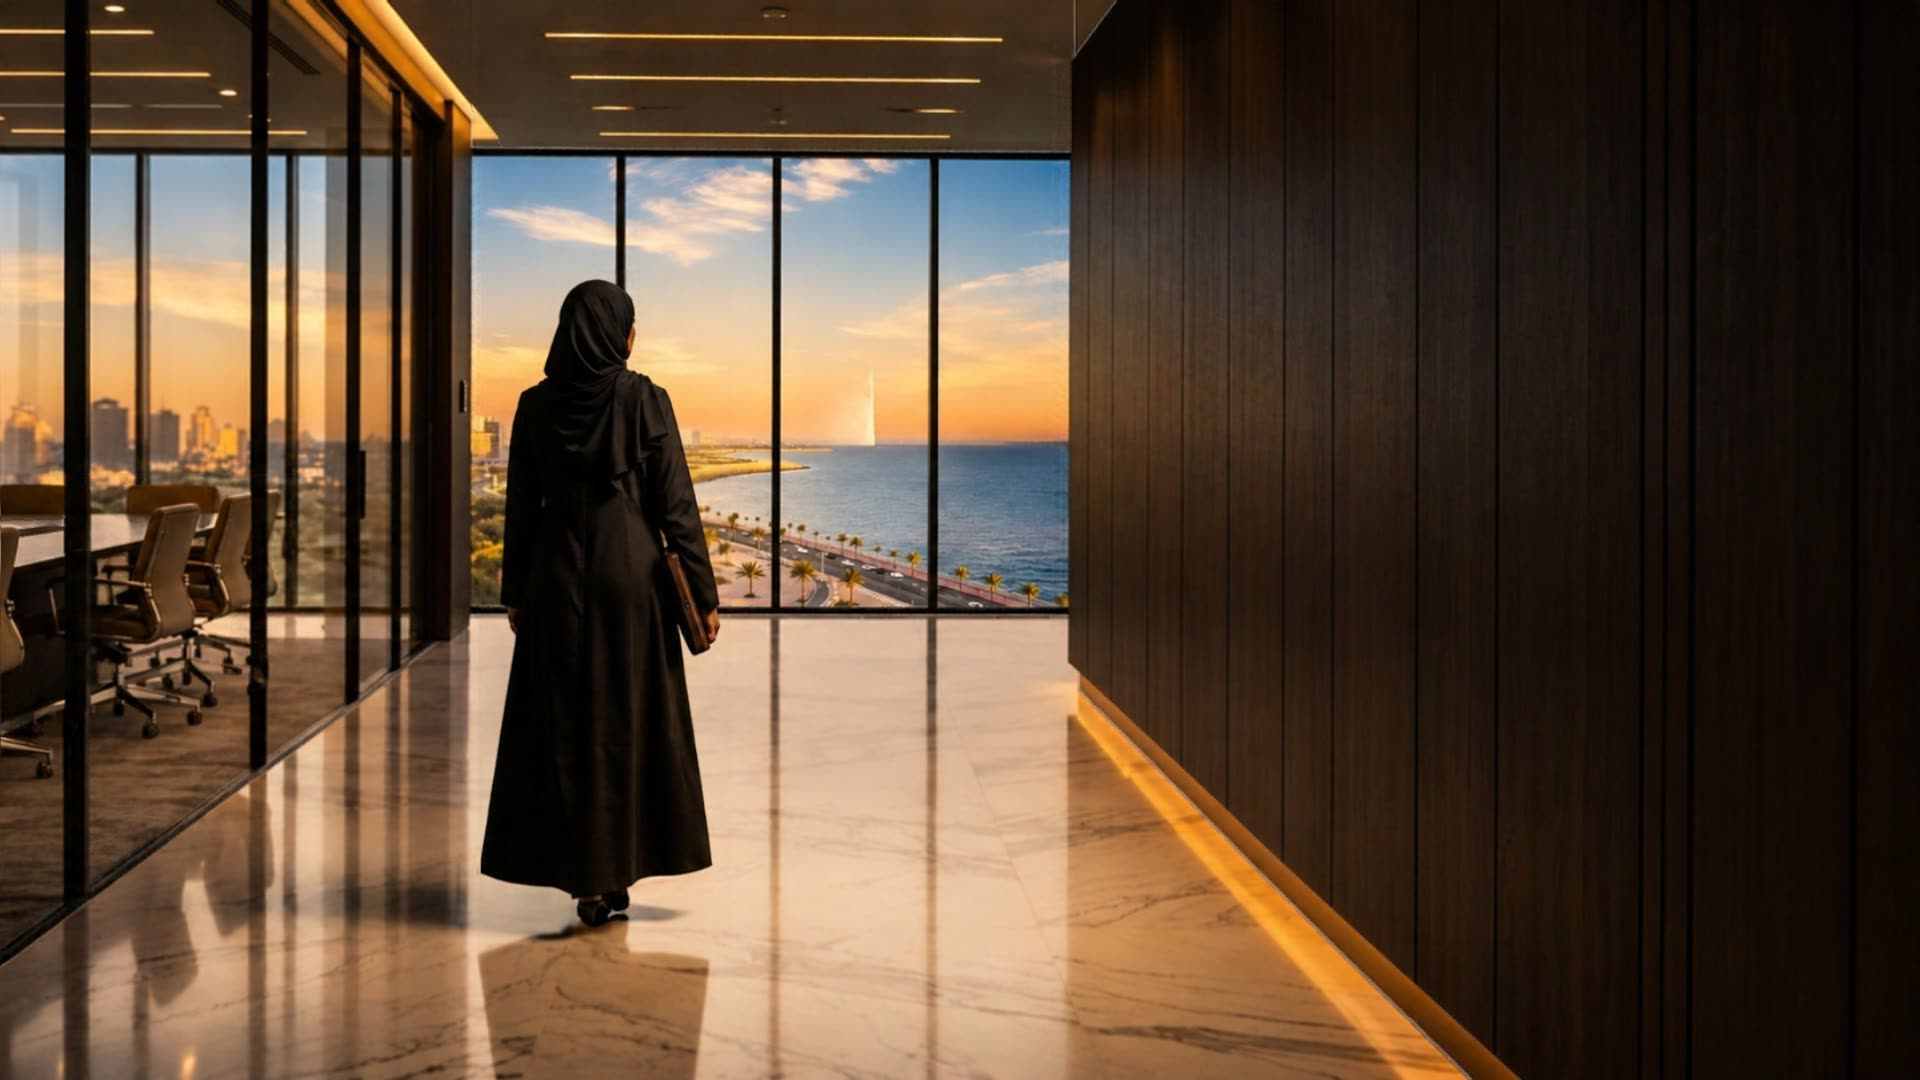
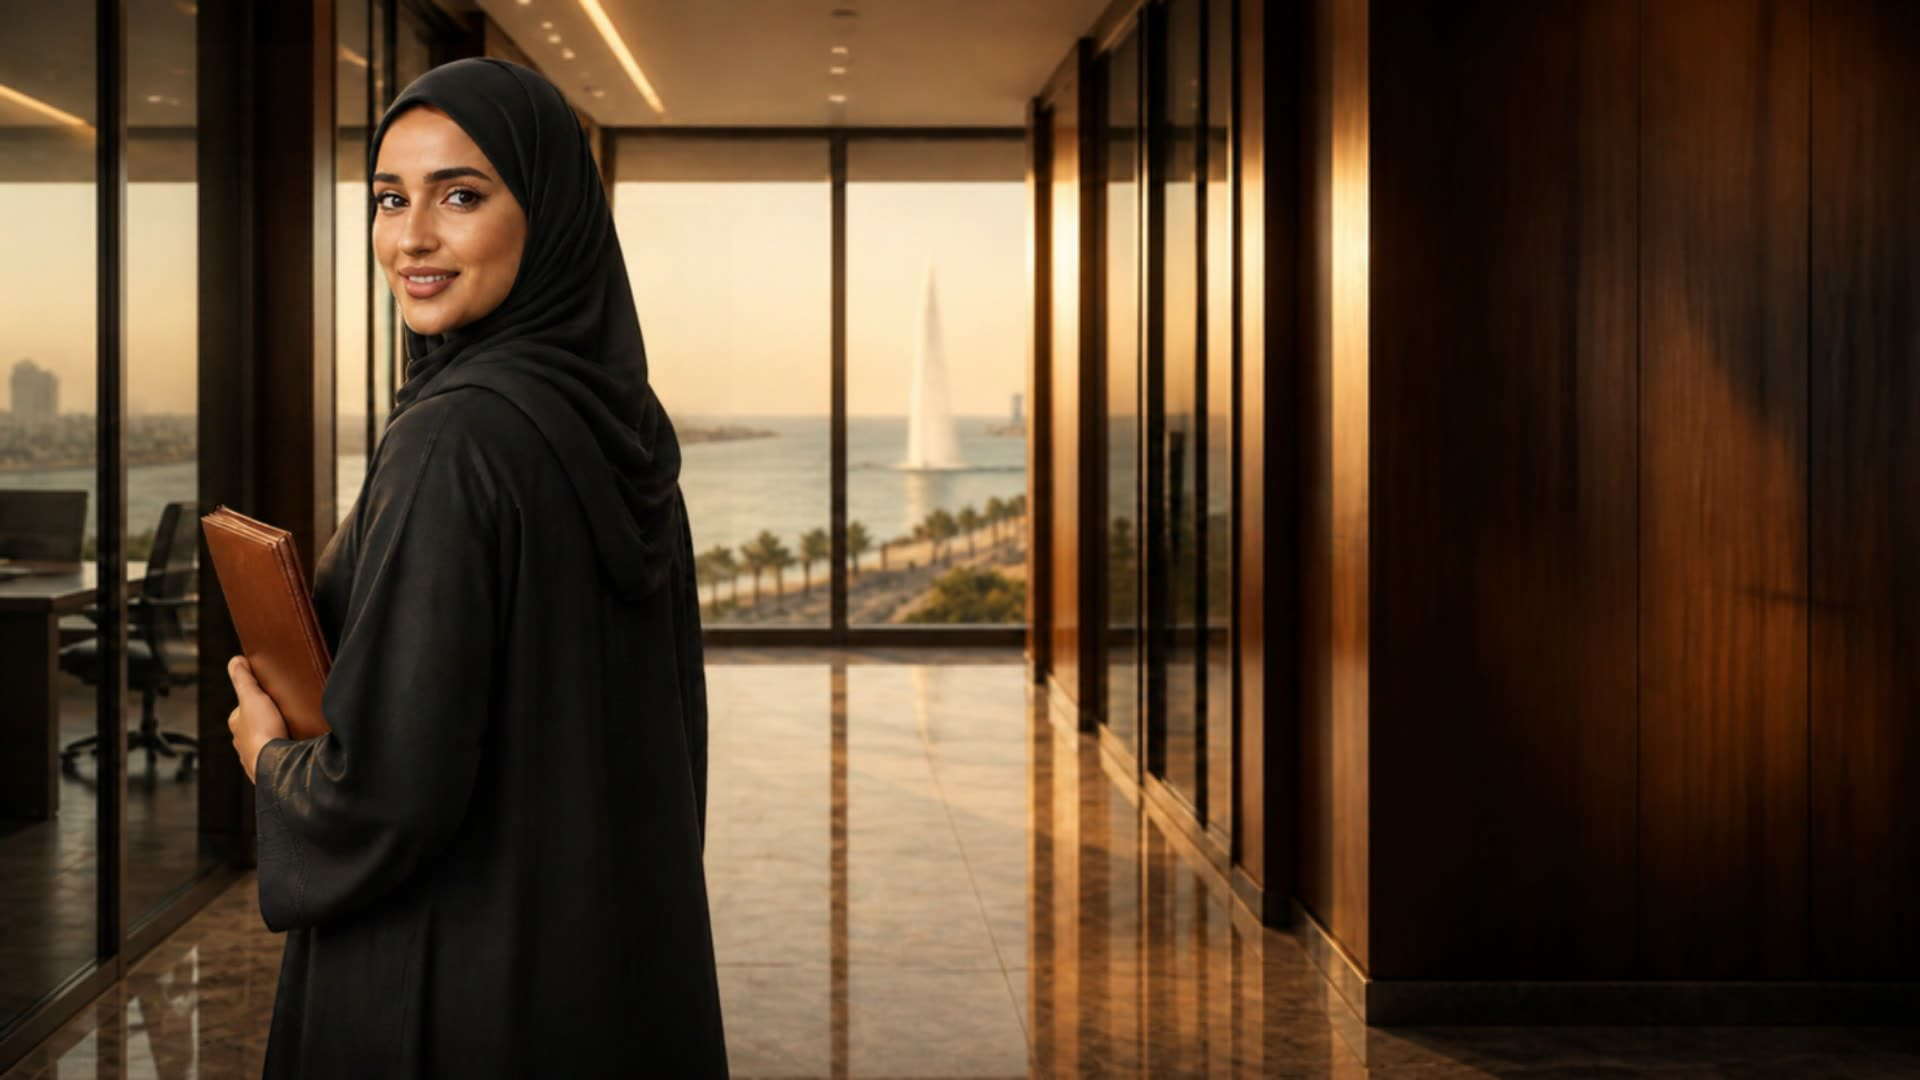
Use the client's chosen character in the hero image and video prompt
Claude-Session: https://claude.ai/code/session_01Ga1p9oGE8DCELHe8fN9sZk

diff --git a/lawyer-jeddah/index.html b/lawyer-jeddah/index.html
@@ -79,7 +79,7 @@ a{color:inherit}
 .hero{position:relative;min-height:min(100vh,860px);display:grid;align-items:end;color:var(--pearl);background:var(--night);overflow:hidden;margin-top:calc(-1 * env(safe-area-inset-top,0px))}
 .hero-media{position:absolute;inset:0;width:100%;height:100%;object-fit:cover;transform:scale(1.06);animation:settle 7s ease-out forwards}
 @keyframes settle{to{transform:scale(1)}}
-@media (max-width:720px){.hero-media{object-position:26% center}}
+@media (max-width:720px){.hero-media{object-position:18% center}.hero::before{background:linear-gradient(0deg,rgba(11,19,21,.97) 0%,rgba(11,19,21,.88) 52%,rgba(11,19,21,.25) 80%,rgba(11,19,21,.5) 100%)}}
 .hero::before{content:"";position:absolute;inset:0;z-index:1;background:
   linear-gradient(270deg,rgba(11,19,21,.96) 0%,rgba(11,19,21,.78) 38%,rgba(11,19,21,.2) 70%,rgba(11,19,21,.35) 100%),
   linear-gradient(0deg,rgba(11,19,21,.95) 0%,transparent 40%)}

diff --git a/lawyer-jeddah/VIDEO-PROMPT.md b/lawyer-jeddah/VIDEO-PROMPT.md
@@ -3,7 +3,27 @@
 **المواصفات:** 16:9 · 1920×1080 · من 8 إلى 10 ثواني · بدون صوت · لقطة وحدة متصلة (عشان يتكرر بشكل ناعم)
 **صورة البداية (اختياري):** `hero.jpg` من هذا المجلد، أو صورة كانفا اللي فيها المحامية في الممر
 
-## البرومبت (إنجليزي — الأفضل لأدوات الفيديو)
+## ✦ نسخة الشخصية (البنت اللي في الصورة المرجعية)
+
+ارفعي **صورتين** في أداة الفيديو:
+1. `character-reference.jpg` كمرجع للشخصية (Character / Subject reference)
+2. `hero.jpg` كأول فريم (Start frame) لو الأداة تدعمه
+
+```
+Use the woman from the reference image as the main character — keep her exact face,
+dark grey hijab and black abaya, consistent throughout, no face drift or deformation.
+Slow cinematic tracking shot: she walks confidently down a luxury law office corridor
+with dark walnut wood panels and glass walls, holding a leather document folder.
+Halfway through she turns her head slightly and gives a calm, confident glance toward
+the camera, then keeps walking toward a floor-to-ceiling window overlooking the Jeddah
+Corniche, the Red Sea and King Fahd Fountain at golden hour.
+Warm sunlight, polished marble reflections, shallow depth of field, steady gimbal,
+photorealistic, premium and moody. She stays in the left third of the frame; the right
+side stays darker and empty for website text.
+No text, no logos, no distortion, no camera shake. 16:9, 8–10 seconds, seamless loop feel.
+```
+
+## البرومبت العام (بدون شخصية محددة)
 
 ```
 Slow cinematic tracking shot from behind, steady gimbal: a confident Saudi woman lawyer
